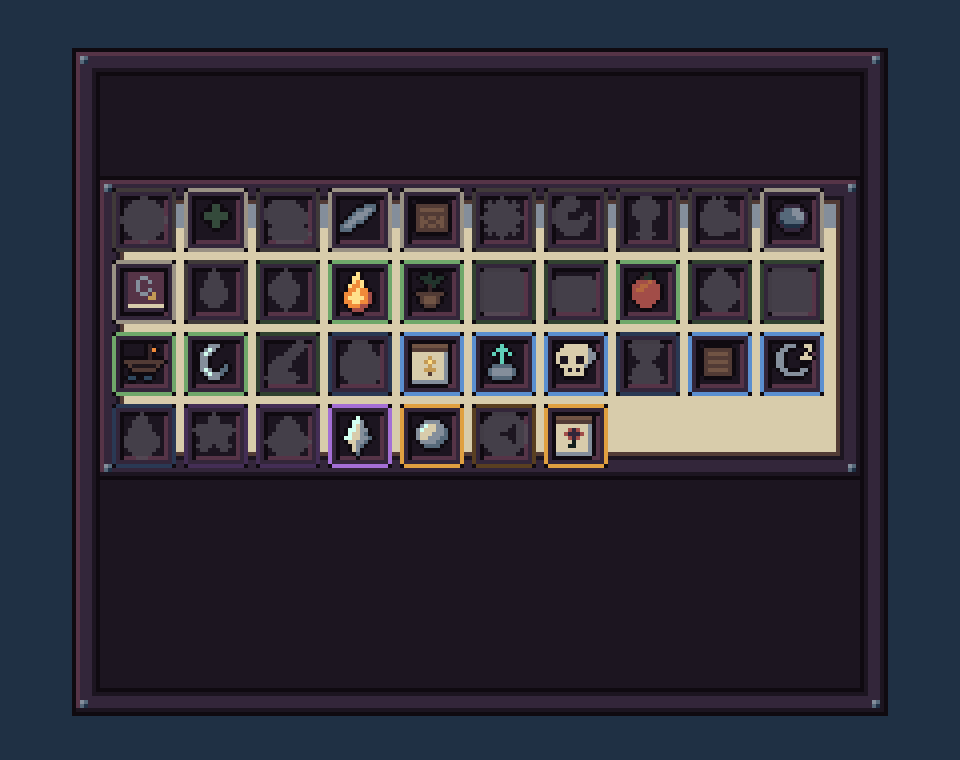
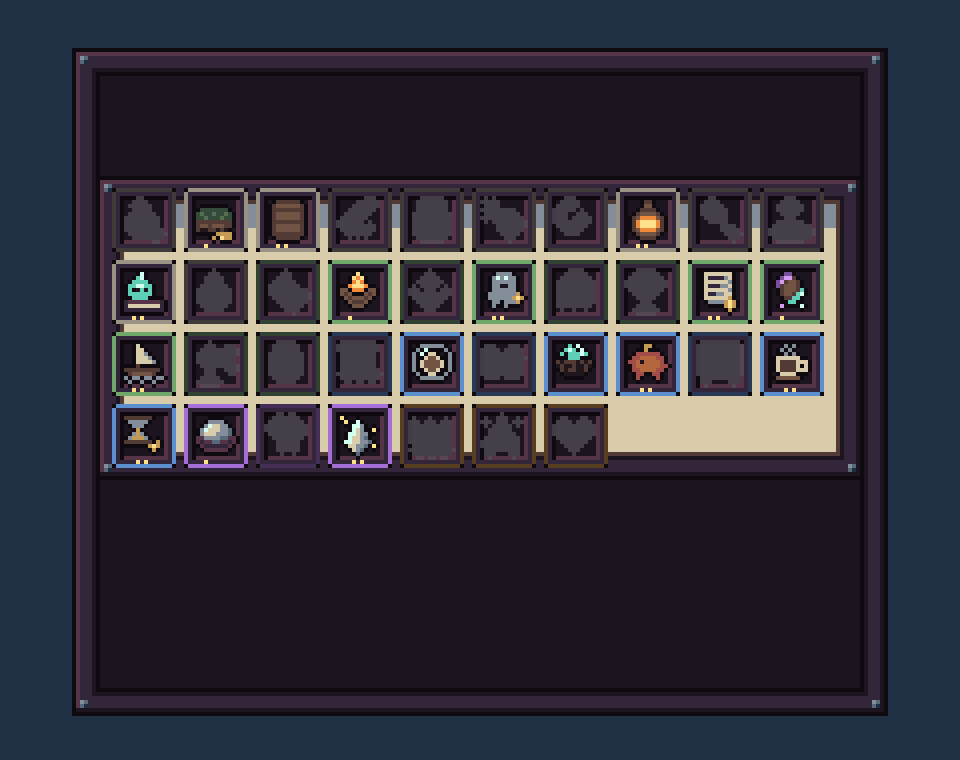
Własne ikony 12 px dla 37 Darów Mgły
- tools/pixel-proto/gift_icons.py: mapy ikon w palecie mrocznej, eksport export_unity_gifts.py
  do UI/Icons/icon_gift_<id>.png (+ pivots.json). Arkusz docs/img/ikony_darow.png.
- Kolekcja i walka darów biorą ikonę daru, a bez niej zapasową ikonę UI.
- Podgląd Przystani odświeżony, GDD §8 i §11.8, TEST_PLAN 12 (najpierw Wyspa → 2).

Changed region(s): [[0.0938, 0.2421, 0.875, 0.6355]]

diff --git a/tools/pixel-proto/gift_icons.py b/tools/pixel-proto/gift_icons.py
@@ -1,0 +1,80 @@
+"""Ikony Darów Mgły (prestiż, GDD §11.8): 37 map 10x10 w kluczach ui_kit.KEY (obrys dokłada from_map, wynik 12x12).
+
+Klucze: o kontur, 1 2 3 śliwka (ciemna → jasna), c r g w czerwień, pomarańcz, złoto, kość, e f h j ziemia i drewno,
+k m n q zieleń, a b d s woda, z mgła, F X płomień, W L ognik (turkus), U M fiolet grzybów.
+"""
+
+GIFT_ICONS = {
+    # ---- zwykłe
+    'dowry': ["...hh.....", "..h..h....", "...hh.....", "..hjjjh...", ".hjjjjjh..",
+              ".hjjgjjh..", ".hjgFgjh..", ".hjjgjjhg.", "..hhhhhgFg", ".......gg."],
+    'cheap_land': ["..........", "..........", ".nnnnnnn..", "nqnnqnnqn.", "nnqnnnqnn.", "hhhhhhhhh.", "hjjhjjjhh.", "heehhehe..", ".....gggg.", "....g.Fgg."],
+    'full_cellar': ["..hhhhhh..", ".hjjjjjjh.", ".hhhhhhhh.", ".hjjjjjjh.", ".hjjjjjjh.",
+                    ".hhhhhhhh.", ".hjjjjjjh.", ".hjjjjjjh.", ".hhhhhhhh.", "..hhhhhh.."],
+    'mist_wings': ["......sss.", "....sszzs.", "...szzzs..", "..szzzs...", ".szzss....",
+                   "szzs......", "sss..z.z..", "...z.z.z..", "..z.z.z...", ".........."],
+    'deep_crates': ["..hhhhhh..", "..hjjjjh..", "..hhhhhh..", ".hhhhhhhh.", ".hjhjjhjh.",
+                    ".hjjhhjjh.", ".hjhjjhjh.", ".hhhhhhhh.", ".ssssssss.", "..dddddd.."],
+    'sun_seeds': ["F.F.......", ".XX.......", "FXFX......", ".XX..hhh..", "F.F.hjjjh.", "....hjwjjh", "....hjjjjh", "....hjjjh.", ".....hhh..", "......m..."],
+    'moon_dew': ["..sss.....", ".szzs.....", "szz.......", "sz....W...", "sz...WLW..",
+                 "szz..WWW..", ".szzzsW...", "..ssss....", "..........", ".........."],
+    'thick_oil': ["....hh....", "....jj....", "...hhhh...", "..hjjjjh..", ".hjXXXXjh.",
+                  ".hXFFFFXh.", ".hXFFFFXh.", ".hjXXXXjh.", "..hjjjjh..", "...hhhh..."],
+    'axe_trade': ["..ss......", ".sszs.....", ".szzzh....", ".sszsh....", "..ss.h....",
+                  ".....h....", "......h...", "......h.g.", ".......hgF", "........g."],
+    'mason_trade': ["...sss....", "..szzzs...", "..s.h.s...", "....h.....", "....h.....", "....h.....", ".3333333..", "3222322223", "3223222223", ".3333333.."],
+    'wise_wisps': ["....L.....", "...WL.....", "..WWWW....", ".WWLLWW...", ".Wo1W1W...",
+                   ".WWWWWW...", "..WWWW....", "2333333332", "2wwwwwwww2", "2222222222"],
+    'mist_compost': ["....n.....", "...nqn....", "....m.....", "..wwmww...", ".wzwwwzw..", ".wwwwwwz..", ".wwhhwwz..", ".wwwwwwz..", "..zzzzz...", ".........."],
+    # ---- niezwykłe
+    'faithful_wisp': ["....L.....", "...WL.....", "..WWWW....", ".WWLLWW...", ".Wo1W1W...",
+                      ".WWWWWW.nn", "..WWWW.nqn", "...W.W..m.", "....W..m..", "......m..."],
+    'keepers_ember': ["....F.....", "...FXF....", "...XFX....", "..XFFFX...", "jj.XXX.jj.",
+                      "jhj...jhj.", ".jhjjjhj..", "..jhhhj...", "...jjj....", ".........."],
+    'green_hands': ["....n.....", "...nqn....", "..n.m.n...", "....m.....", "j...m...j.",
+                    "jj..m..jj.", ".jj.m.jj..", "..jjjjj...", "...jjj....", ".........."],
+    'generous_spirit': ["...zzzz...", "..zLzLzz..", "..zzzzzz..", "..zz11zz..", "..zzzzzz..",
+                        ".zzzzzzzg.", ".zzzzzzgFg", "..zz.zzzg.", "..z..z....", ".........."],
+    'ghost_friend': ["...zzzz...", "..zzzzzz..", ".zz1zz1zz.", ".zzzzzzzz.", ".zz1111zz.",
+                     ".zzzzzzzz.", ".zzzzzzzz.", ".zz.zz.zz.", ".z..z..z..", ".........."],
+    'ancestral_orchard': ["..mmmmm...", ".mmqcmmm..", "mqmmmmcmm.", "mmcmmqmmm.", ".mmmmcmm..",
+                          "..mmmmm...", "....h.....", "....h.....", "...hjh....", "..hhhhh..."],
+    'regulars': [".wwwwwww..", ".w2222zw..", ".wwwwwwz..", ".w222zzw..", ".wwwwwwz..",
+                 ".w22zzww..", ".wwwwwwg..", "..zzzzgFg.", "......gFg.", ".......g.."],
+    'fickle_seeds': ["...UU.....", "..UMMh....", ".UMhjjh...", ".Uhjjjh...", "..hjjjhW..",
+                     "..hjjhWL..", "...hhWW...", "....WW....", "..M....L..", ".........."],
+    'mist_wind': ["...w......", "...ww.....", "...wwz....", "...wwwz...", "...wwwwz..",
+                  "...h......", "hhhhhhhhh.", ".hjjjjjh..", "z.zz.zz.zz", ".z..z..z.."],
+    'night_fair': ["...F......", "..hhh..sss", ".hXFXh.zzs", ".hFFFh.zs.", ".hXFXh.zs.",
+                   "..hhh..zzs", "...h....ss", "...h......", "..ggg.....", ".gFFFg...."],
+    'ember_reserve': ["..wwwww...", "..hhhhh...", ".w.....w..", ".wXFXFXw..", ".wFXFXFw..",
+                      ".wXFFFXw..", ".wFXFXFw..", ".wXFXFXw..", "..wwwww...", ".........."],
+    # ---- rzadkie
+    'mist_market': ["cwcwcwcwc.", "cwcwcwcwc.", ".h.....h..", ".h.ggg.h..", ".h.gFg.h..",
+                    ".hhhhhhh..", ".hjjjjjh..", "zz.zz.zz.z", ".zz.zz.zz.", ".........."],
+    'seed_memory': ["..zzzzzz..", ".z.L....z.", "z.L.ww...z", "z..wjjw..z", "z.wjjjjw.z", "z.wjjjjw.z", "z..wjjw..z", ".z..ww..z.", "..zzzzzz..", ".........."],
+    'old_friends': ["..........", "zwz...zwz.", "zwwz.zwwz.", "jggj.jggjj", "jggjjjggj.", "jggjjjggj.", "jggjjjggj.", "jjjj.jjjj.", "..........", ".........."],
+    'cozy_nest': ["...W.L....", "..WLW.L...", ".W.WWWLW..", "...WWW....", "hehhheheh.",
+                  "eheeheehe.", ".hehheeh..", "..eeeee...", "..........", ".........."],
+    'piggy_bank': ["....gg....", "....g.....", "..cccccc..", ".ccrrrrcc.", "ccr1rrrrc.",
+                   ".crrrrrrcc", ".ccrrrrcc.", "..cc..cc..", "..c....c..", ".........."],
+    'notice_board': ["hhhhhhhhhh", "hjjjjjjjjh", "hjwwjwwwjh", "hjwwjw2wjh", "hjwwjwwwjh",
+                     "hjjjjjjjjh", "hjwwwjwwjh", "hhhhhhhhhh", ".h......h.", ".h......h."],
+    'tireless': ["...z.z....", "..z.z.....", "...z.z....", ".wwwwww...", ".whhhhwww.",
+                 ".whhhhw.w.", ".whhhhwww.", "..wwww....", ".jjjjjj...", ".........."],
+    'day_wage': ["hhhhhhh...", ".zzzzz....", "..zzz.....", "...g......", "..zgz.....",
+                 ".zgggz....", "hhhhhhh.g.", "......gFg.", ".......g..", ".........."],
+    # ---- epickie
+    'pearl_luck': ["..........", "...zzzz...", "..zLwwzz..", ".zLwwwzzs.", ".zwwwzzzs.",
+                   "33zzzzss33", "3233ss3323", ".32222223.", "..333333..", ".........."],
+    'golden_fleece': ["..gg.gg...", ".gFggFgg..", "gFgggggFg.", "ggFgFgggg.", ".gggggFgg.",
+                      "..ggFggg..", "...gggg...", "...g..g...", "...h..h...", ".........."],
+    'lucky_shard': ["F.........", ".F..L.....", "...LLz....", "...Lwz..F.", "..LLwzz...",
+                    "..Lwwzs...", ".LLwwzzs..", "..wwzzs.F.", "...wzs....", "....s....."],
+    # ---- legendarne
+    'mist_crown': ["..........", "g...g...g.", "gg.gFg.gg.", "gFggggggF.", "ggggggggg.",
+                   "gcgggWggc.", "ggggggggg.", ".ggggggg..", "zz.zz.zz.z", ".zz.zz.zz."],
+    'pearl_grace': ["....L.....", "L...z...L.", "...zLz....", "..zwwz....", "...zz.....", ".zzz.zzz..", "zLwzzLwz..", "zwwzzwwz..", ".zz...zz..", ".L.....L.."],
+    'island_heart': ["..........", ".cc...cc..", "cnqc.cnqc.", "cqnnccnqc.", "cnnqnnnnc.",
+                     ".cnnqnnc..", "..cnnnc...", "...cnc....", "....c.....", ".........."],
+}

diff --git a/tools/pixel-proto/export_unity_gifts.py b/tools/pixel-proto/export_unity_gifts.py
@@ -1,0 +1,29 @@
+"""Eksport ikon Darów Mgły (gift_icons.py) do Unity: UI/Icons/icon_gift_<id>.png + wpisy w pivots.json.
+
+Uruchom z tools/pixel-proto:  python3 export_unity_gifts.py   (dopisuje do pivots.json, potem w Unity Wyspa → 2)
+"""
+import os, json
+import ui_kit as K
+from sprites3 import RGB
+from gift_icons import GIFT_ICONS
+from PIL import Image
+
+ROOT = os.path.abspath(os.path.join(os.path.dirname(os.path.abspath(__file__)), "..", ".."))
+SPR = os.path.join(ROOT, "Assets", "_Project", "Art", "Sprites")
+PIVOTS = os.path.join(SPR, "pivots.json")
+items = {it["name"]: it for it in json.load(open(PIVOTS))["items"]}
+
+out = os.path.join(SPR, "UI", "Icons")
+os.makedirs(out, exist_ok=True)
+for gid, rows in GIFT_ICONS.items():
+    s = K.from_map(rows)
+    im = Image.new("RGBA", (s.w, s.h), (0, 0, 0, 0))
+    for (x, y), k in s.px.items():
+        im.putpixel((x, y), RGB[k] + (255,))
+    name = "icon_gift_" + gid
+    im.save(os.path.join(out, name + ".png"))
+    items[name] = {"name": name, "x": 0.5, "y": 0.5}
+
+with open(PIVOTS, "w") as f:
+    json.dump({"items": sorted(items.values(), key=lambda i: i["name"])}, f, indent=2)
+print(f"ok: {len(GIFT_ICONS)} ikon darów, {len(items)} wpisów w pivots.json")

diff --git a/Assets/_Project/Scripts/UI/GiftGrid.cs b/Assets/_Project/Scripts/UI/GiftGrid.cs
@@ -65,7 +65,7 @@ namespace Wyspa.UI
             var slot = new Slot { gift = g };
             slot.back = Ui.Img(parent, "Gift_" + g.id, t.slot, true);
             slot.rect = Ui.Place(slot.back.rectTransform, Ui.TopLeft, Ui.TopLeft, topLeft, new Vector2(Cell, Cell));
-            slot.icon = Ui.Img(slot.rect, "Icon", t.Icon(g.icon), false);
+            slot.icon = Ui.Img(slot.rect, "Icon", Icon(g), false);
             Ui.Place(slot.icon.rectTransform, Ui.Center, Ui.Center, Vector2.zero, new Vector2(12, 12));
             slot.border = Ui.Img(slot.rect, "Rarity", Frame(), false);
             Ui.Stretch(slot.border.rectTransform);
@@ -81,6 +81,16 @@ namespace Wyspa.UI
                 }
             }
             return slot;
+        }
+
+        /// <summary>Własna ikona daru (tools/pixel-proto/gift_icons.py), a bez niej zwykła ikona UI.</summary>
+        public static Sprite Icon(Prestige.Gift g)
+        {
+            var t = Ui.Theme;
+            if (t == null)
+                return null;
+            var own = t.Icon(g.IconKey);
+            return own != null ? own : t.Icon(g.icon);
         }
 
         public void Refresh()

diff --git a/Assets/_Project/Scripts/Economy/Prestige.cs b/Assets/_Project/Scripts/Economy/Prestige.cs
@@ -37,12 +37,13 @@ namespace Wyspa.Economy
 
         public class Gift
         {
-            public string id, icon;
+            public string id, icon;   // icon: zapasowa ikona UI, gdy motyw nie ma jeszcze własnej (icon_gift_<id>, Wyspa → 2)
             public GiftRarity rarity;
             public float[] values;    // efekt na kolejnych poziomach (opis: {0})
             public bool percent;      // opis w procentach (0.1 → 10)
             public string NameKey => "gift." + id + ".name";
             public string DescKey => "gift." + id + ".desc";
+            public string IconKey => "gift_" + id;
             public int MaxLevel => values.Length;
         }
 

diff --git a/docs/GDD.md b/docs/GDD.md
@@ -437,6 +437,7 @@ Python 3 + Pillow. Sprite'y generowane proceduralnie (cieniowane elipsy, automat
 | `mockups.py` | makiety UI (`out/ui_*.png`) i plik `WyspaPixel.ttf` |
 | `export_unity_ui.py` | eksport nowych sprite'ów, UI (z granicami 9-slice) i fontu do Unity (uruchamiać po `export_unity.py`) |
 | `export_unity_auto.py` | Etapy 6b-6d: nowe rośliny, duszki, ptaki, skrzynia 16 px, tablica ogłoszeń i strzałka wprowadzenia |
+| `gift_icons.py` + `export_unity_gifts.py` | ikony 37 Darów Mgły (12 px) → `UI/Icons/icon_gift_<id>.png`, arkusz `docs/img/ikony_darow.png` |
 | `../balance/sim.py` | Etap 6d: symulacja progresji (godziny pracy do kamieni milowych), liczby jak w grze |
 | `export_unity_fx.py` | Etap 3a: `water_base.png`, mapa danych `water_data.png` (odległość od brzegu, klasa piksela), `Art/water_layout.json` (ryby, potwór), sprite'y cząsteczek `Fx/` |
 
@@ -667,6 +668,7 @@ Obrazki referencyjne (kopie): `docs/img/`
     i dopiero potem nowa wyspa z darami. Dary mają **rzadkość z kolorami** (zwykły, niezwykły, rzadki, epicki, legendarny),
     **27 nowych** (razem 37), kolekcja: zdobyte w kolorze, niezdobyte wyszarzałe. Zakup darów w Księdze usunięty (Księga
     pokazuje kolekcję). Zapis v16. Gałąź główna repozytorium to teraz `main`.
+    Każdy z 37 darów ma własną ikonę 12 px w palecie mrocznej (`gift_icons.py`, podgląd `docs/img/ikony_darow.png`).
 43. Po teście: mgła w przezroczystym oknie **miękka** (półprzezroczysta w 6 stopniach zamiast szachownicy), kłęby za wodą
     do ok. 16 px. Światło przerobione na **Light 2D jak lampy**: snopy słońca/księżyca to Sprite Light 2D z obrazem snopów
     i wolumetrią (`LightShafts`), lampy i świecące owoce z wolumetrią, ogniki/duszki/runy mają w nocy własną poświatę
@@ -1004,7 +1006,8 @@ efekty w `Upgrades/UpgradeEffects.cs` (wartości wstępne do balansu):
 
 Kod: `Economy/Prestige.cs` (dary, losowanie, `ApplyToEffects` po `UpgradeEffects.Apply`), Przystań `UI/MistHarborView.cs`,
 kolekcja `UI/GiftGrid.cs`, zapis `Save/SaveSystem` (`SailIntoMist`, `LoadMist`, `SaveMist`, `LeaveMist`, zapis v16 z polem
-`mist`). Ikony darów na razie z ikon UI (część się powtarza), docelowo własne. Liczby do balansu.
+`mist`). Każdy dar ma własną ikonę 12 px (`tools/pixel-proto/gift_icons.py`, eksport `export_unity_gifts.py` →
+`UI/Icons/icon_gift_<id>.png`, arkusz `docs/img/ikony_darow.png`); bez niej grafika zapasowa z ikon UI. Liczby do balansu.
 
 ### 11.7 Etapy implementacji
 - **Etap 1 (gotowy):** szkielet systemów (§10).

diff --git a/docs/TEST_PLAN.md b/docs/TEST_PLAN.md
@@ -194,6 +194,7 @@ Najpierw **Wyspa → 2** (nowe ulepszenia, ikony kostki i perły).
 8. Klik w boję sieci: panel z czasem do połowu i „Przenieś” (to samo przenoszenie pomostu). Dymek nad boją: „Sieci rybackie”.
 
 ## 12. Przystań we mgle i losowane dary
+Najpierw **Wyspa → 2** (motyw UI wczytuje nowe ikony `icon_gift_*`; bez tego dary mają zapasowe ikony UI).
 1. F1 → „Perły mgły +5”, monety na co najmniej 10 000 zarobku, Księga → Rejs → „Odpłyń we mgłę” → drugi klik:
    zamiast nowej wyspy ekran **Przystań we mgle** (wyspa w tle przygaszona mgłą), u góry perły, nr rejsu, „dary X/37”.
 2. Kolekcja: 37 ramek, kolor ramki = rzadkość (szary, zielony, niebieski, fioletowy, złoty). Niezdobyte wyszarzałe,
